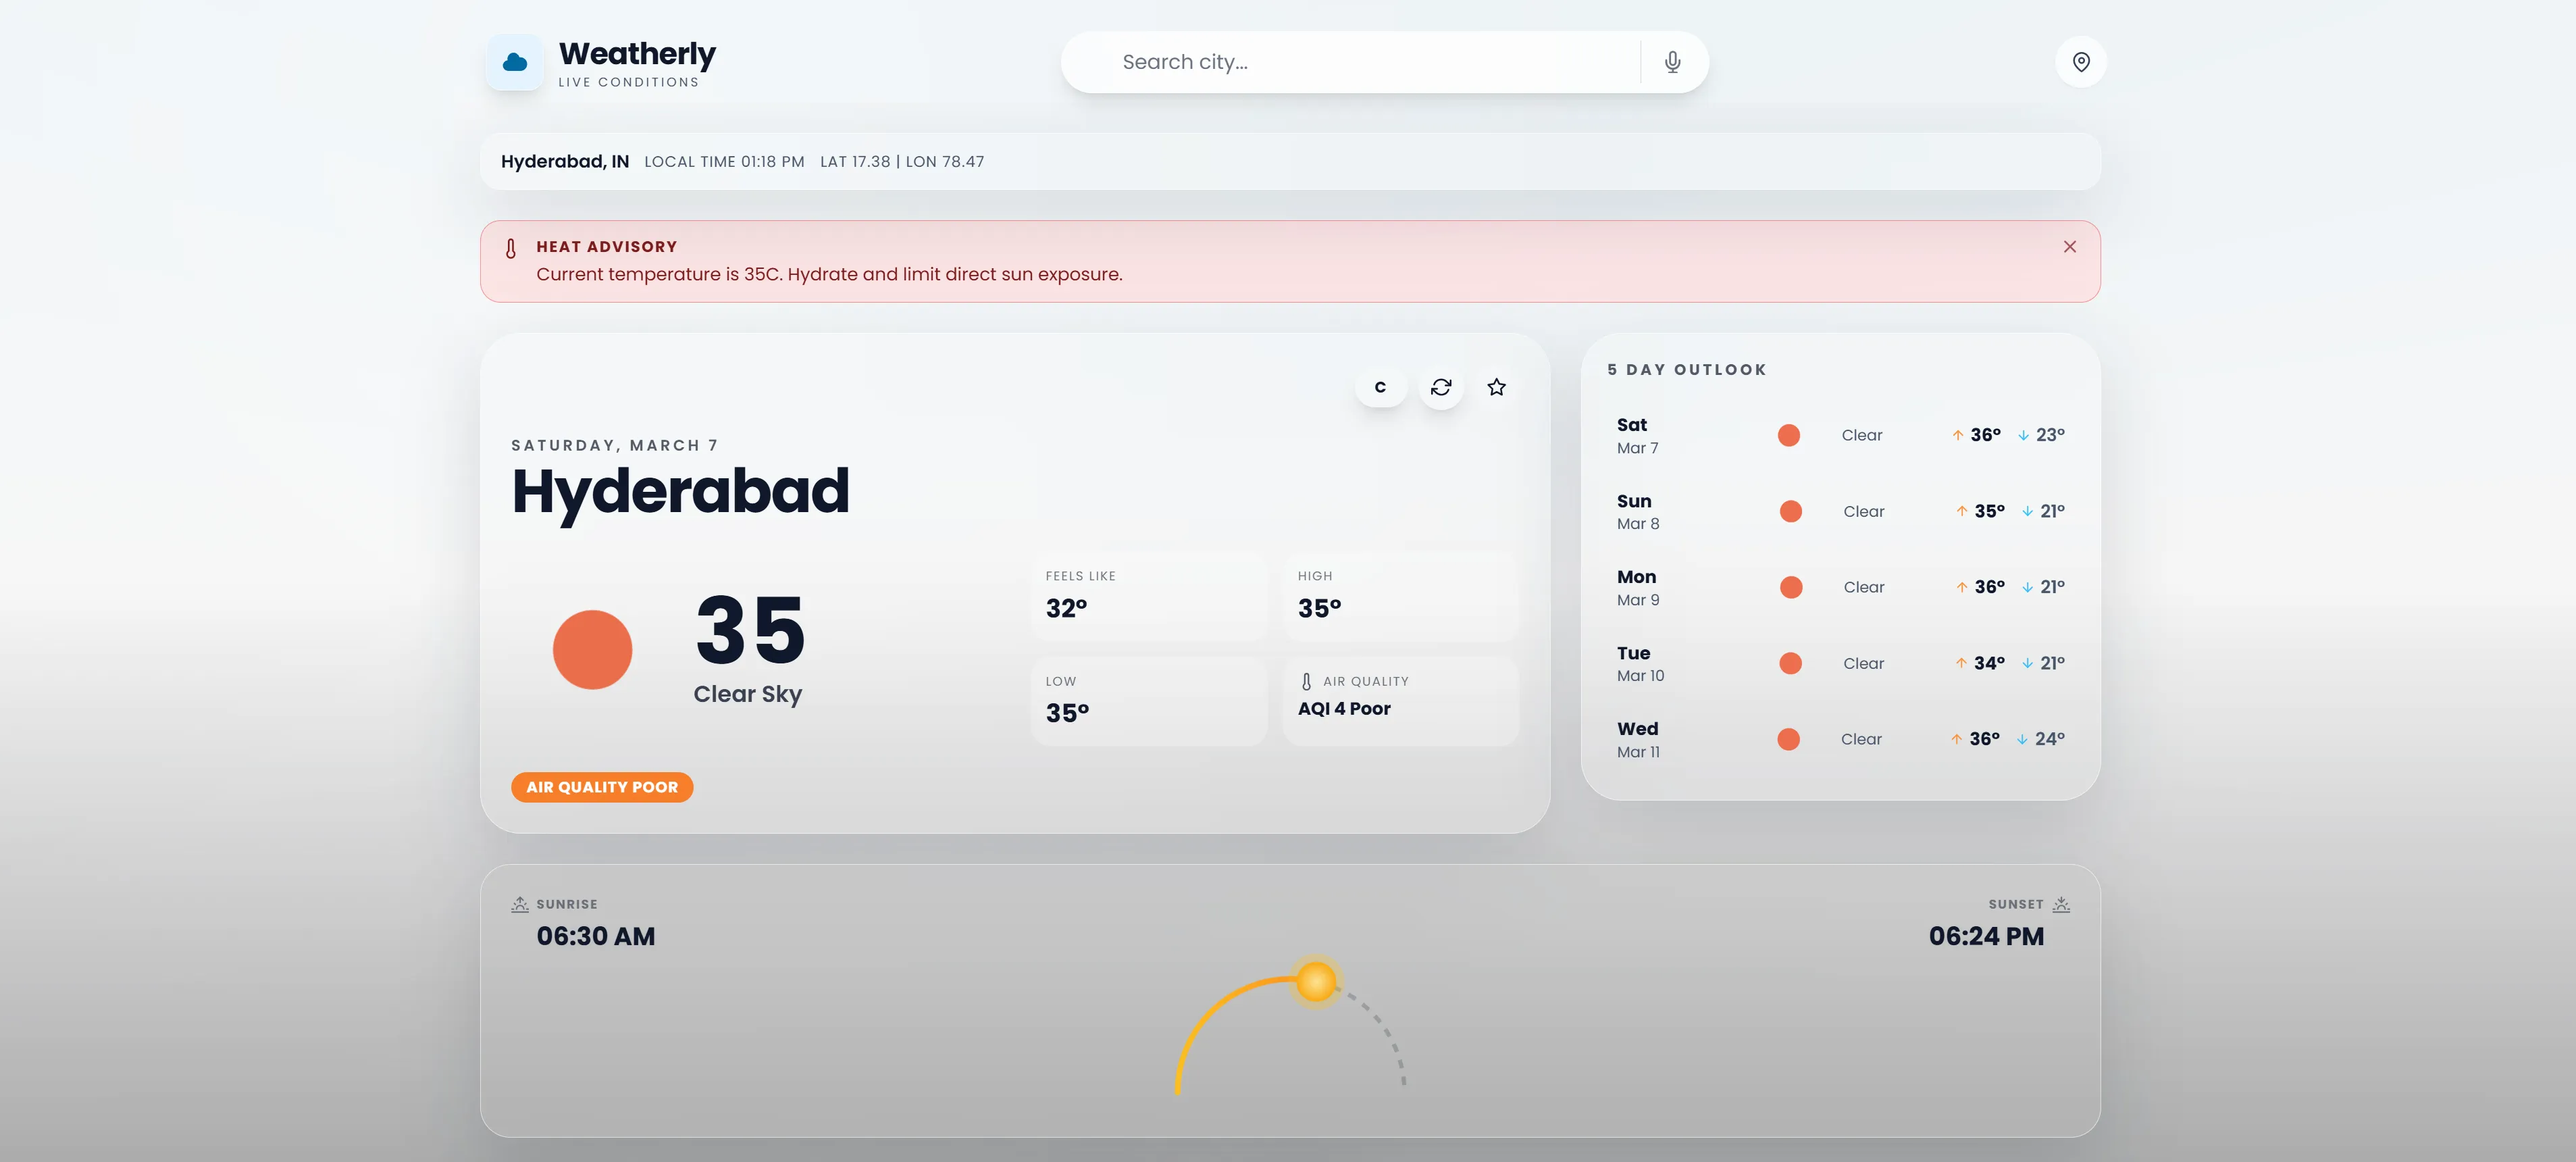
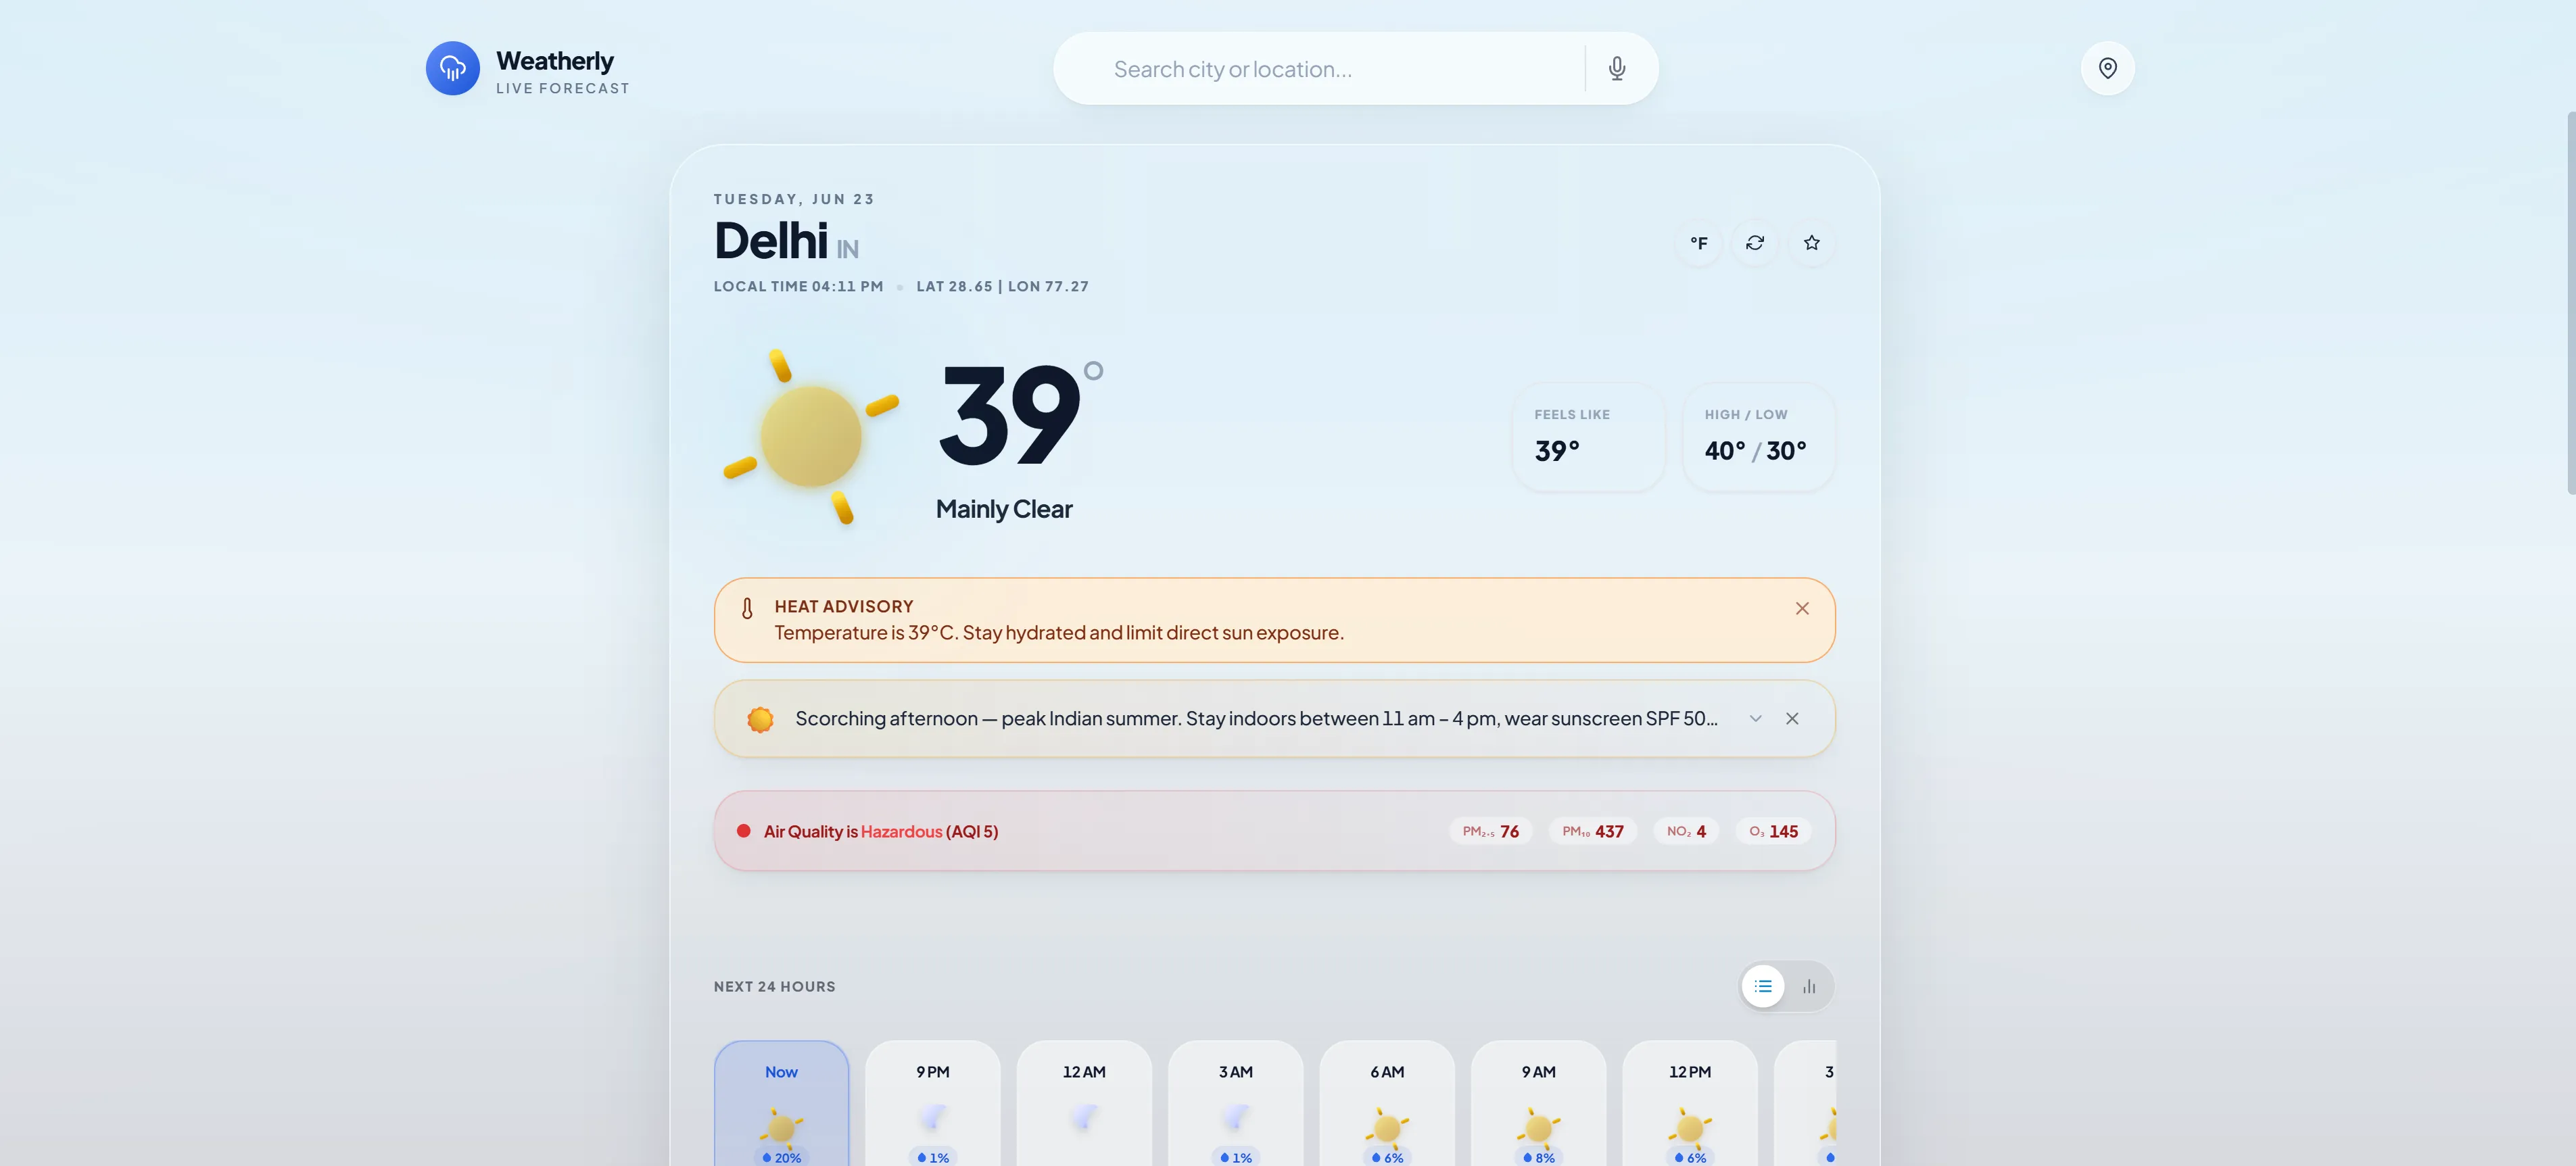
Refactor portfolio content to MERN focus and clean up components
- Align skills, experience, and metadata with updated resume
- Remove PHP references and legacy-systems wording
- Add Stripe payment experience and standardize job titles
- Add Payment Gateway Integration and RAG skills
- Update resume PDF and project live links (Weatherly, FitTrack)
- Extract shared experience helper, remove unused Hero component
- Add Skills nav item and download attribute on resume buttons

diff --git a/src/app/components/About.tsx b/src/app/components/About.tsx
@@ -14,44 +14,29 @@ import {
   Terminal
 } from "lucide-react";
 import Image from "next/image";
+import { getExperienceText } from "@/lib/experience";
 
 export default function About() {
-  // --- Dynamic Experience Calculation ---
-  const startTCS = new Date("2021-12-29");
-  const endTCS = new Date("2024-06-10");
-  const startCurrent = new Date("2024-10-01");
-
-  function getExperience() {
-    const now = new Date();
-    const tcsMonths = (endTCS.getFullYear() - startTCS.getFullYear()) * 12 + (endTCS.getMonth() - startTCS.getMonth());
-    const currentMonths = (now.getFullYear() - startCurrent.getFullYear()) * 12 + (now.getMonth() - startCurrent.getMonth());
-    const totalMonths = tcsMonths + currentMonths;
-    const years = Math.floor(totalMonths / 12);
-    const months = totalMonths % 12;
-    return { years, months };
-  }
-
-  const { years, months } = getExperience();
-  const expText = `${years}.${months} Years`;
+  const expText = getExperienceText();
 
   // --- Work Experience Data ---
   const experienceTimeline = [
     {
       company: "HR Geckos",
-      role: "Full Stack Engineer",
+      role: "Fullstack Developer",
       period: "Oct 2024 – Present",
       type: "Product Engineering",
       achievements: [
       "Built an end-to-end Employee Handbook module, handling database design, backend logic, and frontend implementation.",
       "Implemented a multi-level policy approval workflow with role-based access control for structured review and publishing.",
-      "Refactored 100+ static pages into a reusable template-driven architecture, significantly improving maintainability.",
+      "Integrated end-to-end Stripe payment workflows, including embedded checkout, invoice payments, webhook-based status synchronization, subscription billing, and refund handling.",
       "Enhanced UI and landing pages by implementing responsive layouts, improving SEO, and optimizing image performance.",
       "Implemented automated PDF generation and digital acknowledgement tracking for company policy distribution."
     ]
     },
     {
       company: "TCS",
-      role: "Frontend Developer",
+      role: "Fullstack Developer",
       period: "Dec 2021 – Jun 2024",
       type: "Enterprise Solutions",
         achievements: [
@@ -74,7 +59,7 @@ const skills = [
   { 
     label: "Backend", 
     icon: Server, 
-    items: ["Node.js", "Express.js", "PHP", "REST APIs", "JWT Authentication"] 
+    items: ["Node.js", "Express.js", "REST APIs", "JWT Authentication"]
   },
   { 
     label: "Database", 
@@ -167,6 +152,7 @@ const skills = [
               <a
                 href="/Bala_Vardhan_Resume.pdf"
                 target="_blank"
+                download="Bala_Vardhan_Pula_Resume.pdf"
                 className="mt-6 flex w-full items-center justify-center gap-2 rounded-xl bg-emerald-600 px-4 py-3 font-medium text-white transition hover:bg-emerald-700 active:scale-95"
               >
                 <Download size={18} /> Download Resume

diff --git a/src/lib/experience.ts b/src/lib/experience.ts
@@ -1,0 +1,25 @@
+// Single source of truth for the dynamic "years of experience" figure.
+// Used by both the Hero (page.tsx) and the About section so they never drift.
+
+const START_TCS = new Date("2021-12-29");
+const END_TCS = new Date("2024-06-10");
+const START_CURRENT = new Date("2024-10-01");
+
+export function getExperience() {
+  const now = new Date();
+  const tcsMonths =
+    (END_TCS.getFullYear() - START_TCS.getFullYear()) * 12 +
+    (END_TCS.getMonth() - START_TCS.getMonth());
+  const currentMonths =
+    (now.getFullYear() - START_CURRENT.getFullYear()) * 12 +
+    (now.getMonth() - START_CURRENT.getMonth());
+  const totalMonths = tcsMonths + currentMonths;
+  const years = Math.floor(totalMonths / 12);
+  const months = totalMonths % 12;
+  return { years, months };
+}
+
+export function getExperienceText() {
+  const { years, months } = getExperience();
+  return `${years}.${months} Years`;
+}

diff --git a/src/app/page.tsx b/src/app/page.tsx
@@ -18,29 +18,14 @@ import About from "./components/About";
 import Skills from "./components/Skills";
 import Projects from "./components/Projects";
 import Contact from "./components/Contact";
+import { getExperienceText } from "@/lib/experience";
 
 export default function Home() {
   const { scrollY } = useScroll();
   const y1 = useTransform(scrollY, [0, 500], [0, 200]);
   const y2 = useTransform(scrollY, [0, 500], [0, -150]);
 
-  // --- Experience Calculation Logic (Preserved) ---
-  const startTCS = new Date("2021-12-29");
-  const endTCS = new Date("2024-06-10");
-  const startCurrent = new Date("2024-10-01");
-
-  function getExperience() {
-    const now = new Date();
-    const tcsMonths = (endTCS.getFullYear() - startTCS.getFullYear()) * 12 + (endTCS.getMonth() - startTCS.getMonth());
-    const currentMonths = (now.getFullYear() - startCurrent.getFullYear()) * 12 + (now.getMonth() - startCurrent.getMonth());
-    const totalMonths = tcsMonths + currentMonths;
-    const years = Math.floor(totalMonths / 12);
-    const months = totalMonths % 12;
-    return { years, months };
-  }
-
-  const { years, months } = getExperience();
-  const expText = `${years}.${months} Years`; // Cleaned up format for "Tech" look
+  const expText = getExperienceText();
 
   const smoothScroll = useCallback((e: React.MouseEvent, target: string) => {
     e.preventDefault();

diff --git a/src/app/components/Skills.tsx b/src/app/components/Skills.tsx
@@ -14,10 +14,9 @@ import {
   SiRedis,
   SiGit,
   SiRedux,
-  SiPhp,
 } from "react-icons/si";
 import { FaAws } from "react-icons/fa";
-import { Code2, Database, Globe, Layers, Server } from "lucide-react";
+import { Code2, CreditCard, Database, Globe, Layers, Server, Sparkles } from "lucide-react";
 
 /* ============================================================================
    Data: Recruiter-Friendly, Resume-Aligned Skills
@@ -41,9 +40,9 @@ const SKILL_CATEGORIES = [
     skills: [
       { name: "Node.js", icon: <SiNodedotjs size={20} />, color: "text-green-500" },
       { name: "Express.js", icon: <SiExpress size={20} />, color: "text-white" },
-      { name: "PHP", icon: <SiPhp size={20} />, color: "text-indigo-400" },
       { name: "REST APIs", icon: <Layers size={20} />, color: "text-orange-400" },
       { name: "JWT Auth", icon: <Code2 size={20} />, color: "text-yellow-400" },
+      { name: "Payment Gateway Integration", icon: <CreditCard size={20} />, color: "text-emerald-400" },
     ],
   },
   {
@@ -55,6 +54,7 @@ const SKILL_CATEGORIES = [
       { name: "Redis", icon: <SiRedis size={20} />, color: "text-red-500" },
       { name: "AWS", icon: <FaAws size={20} />, color: "text-orange-400" },
       { name: "Git / GitHub", icon: <SiGit size={20} />, color: "text-orange-500" },
+      { name: "RAG / Vector Search", icon: <Sparkles size={20} />, color: "text-violet-400" },
     ],
   },
 ];

diff --git a/src/app/components/Header.tsx b/src/app/components/Header.tsx
@@ -8,6 +8,7 @@ import {
   X,
   Home,
   User,
+  Code2,
   FolderOpen,
   Mail,
   Github,
@@ -21,6 +22,7 @@ import clsx from "clsx";
 const NAV_ITEMS = [
   { name: "Home", href: "#home", icon: Home },
   { name: "About", href: "#about", icon: User },
+  { name: "Skills", href: "#skills", icon: Code2 },
   { name: "Projects", href: "#projects", icon: FolderOpen },
   { name: "Contact", href: "#contact", icon: Mail },
 ];
@@ -128,6 +130,7 @@ export default function Header() {
           <a
             href="/Bala_Vardhan_Resume.pdf"
             target="_blank"
+            download="Bala_Vardhan_Pula_Resume.pdf"
             className="flex items-center gap-2 rounded-full bg-emerald-600 px-5 py-2.5 text-sm font-medium text-white transition-all hover:bg-emerald-700 hover:shadow-lg hover:shadow-emerald-500/20 active:scale-95"
           >
             <Download size={16} /> Resume
@@ -171,6 +174,7 @@ export default function Header() {
               <a
                 href="/Bala_Vardhan_Resume.pdf"
                 target="_blank"
+                download="Bala_Vardhan_Pula_Resume.pdf"
                 className="flex items-center gap-2 rounded-full border border-emerald-500/50 bg-emerald-500/10 px-8 py-3 text-lg font-medium text-emerald-400"
               >
                 <FileText size={20} /> Download Resume

diff --git a/src/app/components/Projects.tsx b/src/app/components/Projects.tsx
@@ -124,7 +124,7 @@ const SUPPORTING_PROJECTS: SupportingProject[] = [
       "Integrated Firebase Authentication and Firestore for secure user data storage and used Recharts to visualize health and activity insights.",
     tags: ["Next.js", "Firebase Auth", "Firestore", "Recharts", "Tailwind CSS"],
     links: {
-      live: "https://fitness-tracker-olive.vercel.app/",
+      live: "https://fittracker.balavardhan.dev/",
       github: "https://github.com/vardhan12178/Fitness-Tracker"
     },
     img: `/img/fit-tracker-pro.webp?v=${PROJECT_IMAGE_VERSION}`,
@@ -138,7 +138,7 @@ const SUPPORTING_PROJECTS: SupportingProject[] = [
       "Focused on external API integration, data parsing, and building a fast and intuitive interface for real-time weather updates.",
     tags: ["React.js", "REST APIs", "Tailwind CSS"],
     links: {
-      live: "https://vardhan-weather.vercel.app/",
+      live: "https://weatherly.balavardhan.dev/",
       github: "https://github.com/vardhan12178/Node-Weather"
     },
     img: `/img/weatherly.webp?v=${PROJECT_IMAGE_VERSION}`,

diff --git a/src/app/layout.tsx b/src/app/layout.tsx
@@ -44,13 +44,13 @@ export const metadata: Metadata = {
     template: "%s · Bala Vardhan",
   },
   description:
-    "Full Stack Engineer specializing in MERN & Modern Architectures. Transforming legacy code into high-performance applications.",
+    "Full Stack Engineer specializing in the MERN stack. Building scalable, secure, and high-performance web applications.",
   openGraph: {
     type: "website",
     url: SITE_URL,
     siteName: SITE_NAME,
     title: "Bala Vardhan | Full Stack Engineer",
-    description: "Building scalable MERN applications and modernizing legacy systems.",
+    description: "Building scalable, secure, and production-ready MERN applications.",
     images: [{ url: OG_IMAGE, width: 1200, height: 630, alt: "Bala Vardhan Portfolio" }],
     locale: "en_US",
   },

diff --git a/src/app/components/Contact.tsx b/src/app/components/Contact.tsx
@@ -153,7 +153,7 @@ export default function Contact() {
 
             {/* WhatsApp/Direct */}
             <a
-              href="https://wa.me/918688412181"
+              href="https://wa.me/919542312181"
               target="_blank"
               rel="noreferrer"
               className="flex items-center justify-center gap-2 rounded-2xl border border-zinc-800 bg-zinc-900/30 p-4 text-sm text-zinc-400 transition-colors hover:text-green-400 hover:border-green-900/50"